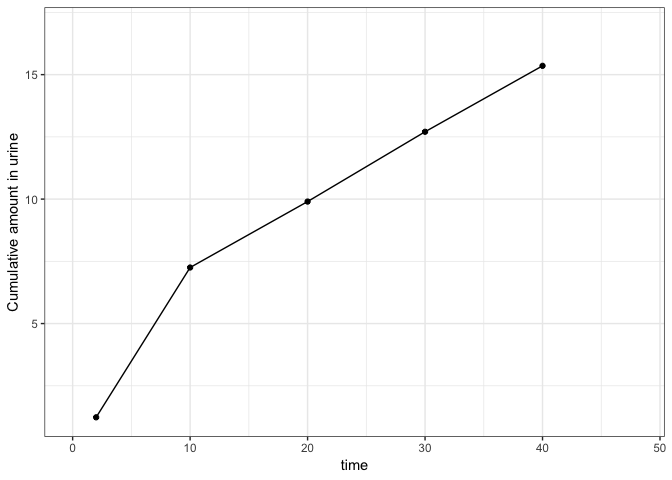
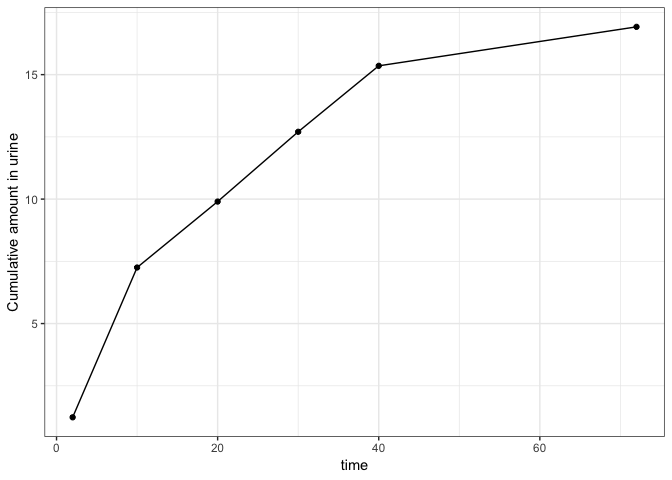
fix xlim for urine EDA

diff --git a/application/two_endpoints.md b/application/two_endpoints.md
@@ -85,8 +85,7 @@ urine
 ``` r
 ggplot(urine, aes(time,UR)) + 
   geom_point() + geom_line() + 
-  ylab("Cumulative amount in urine") + 
-  xlim(0,48)
+  ylab("Cumulative amount in urine")
 ```
 
 ![](two_endpoints_files/figure-gfm/unnamed-chunk-3-1.png)<!-- -->
